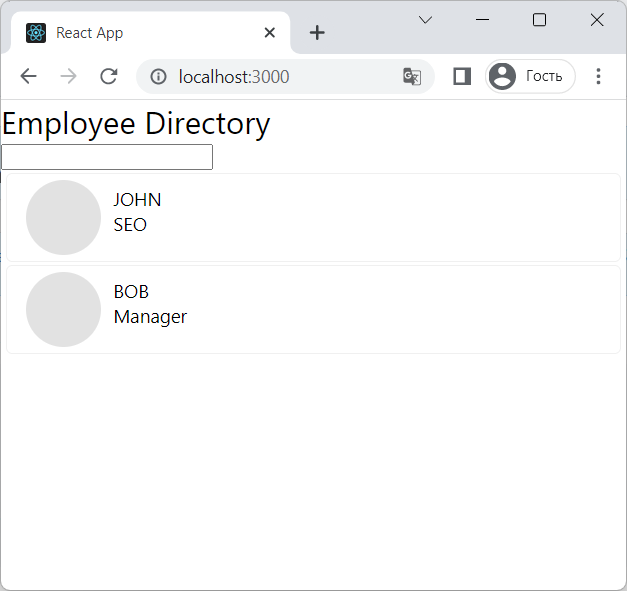
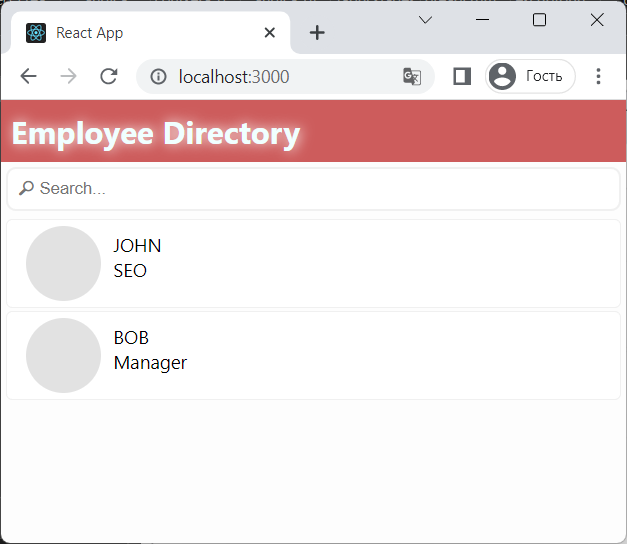
search bar styles

diff --git a/src/components/SearchBar/SearchBar.css b/src/components/SearchBar/SearchBar.css
@@ -1,0 +1,15 @@
+.search-bar {
+    width: calc(100% - 2*4px);
+    box-sizing: border-box; /* https://stackoverflow.com/a/8951709 */
+    border-radius: 8px;
+    border: solid #e2e2e280 2px;
+    padding: 8px; /* внутренние отступы */
+    margin: 4px 4px; /* внешние отступы по вертикали и по горизонтали */
+    outline: none; /* https://stackoverflow.com/a/32576706 */
+}
+
+.search-bar:focus {
+    /* StackOverflow color */
+    border: solid #6bbbf7 2px;
+    box-shadow: 0 0 0 2px hsla(206, 100%, 40%, .15);
+}

diff --git a/src/components/EmployeeList/EmployeeListItem.css b/src/components/EmployeeList/EmployeeListItem.css
@@ -1,6 +1,7 @@
 .employee-list-item {
     padding: 5px 15px; /* внутренние отступы по вертикали и по горизонтали */
     margin: 2px 4px; /* внешние отступы по вертикали и по горизонтали */
+    background-color: white;
     border: solid #e2e2e280 1px;
     border-radius: 5px;
     display: flex;

diff --git a/src/components/SearchBar/SearchBar.js b/src/components/SearchBar/SearchBar.js
@@ -1,3 +1,5 @@
+import './SearchBar.css'
+
 export const SearchBar = () => {
-    return (<input type="text"/>)
+    return (<input className="search-bar" type="text" placeholder="🔎 Search..."/>)
 }

diff --git a/src/App.css b/src/App.css
@@ -1,3 +1,7 @@
 .App {
   font-size: 15px;
 }
+
+html {
+  background-color: #fdfdfd;
+}
